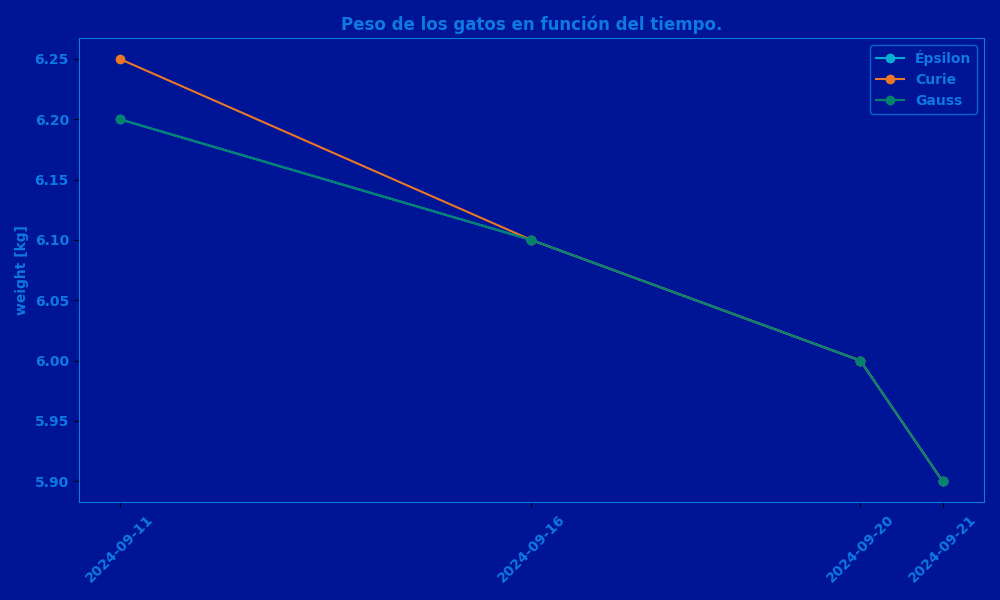
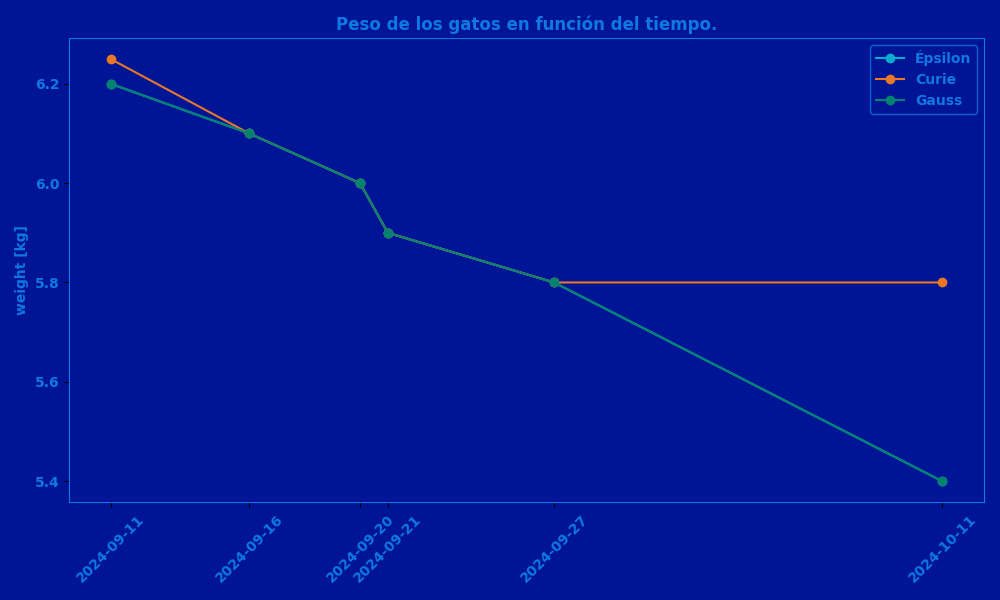
update 11/10

diff --git a/my_cats.py b/my_cats.py
@@ -20,6 +20,8 @@ def get_epsilon() -> Cat:
             Weight(weight=6.1, date=date(2024,9,16)),
             Weight(weight=6.0, date=date(2024,9,20)),
             Weight(weight=5.9, date=date(2024,9,21)),
+            Weight(weight=5.8, date=date(2024,9,27)),
+            Weight(weight=5.4, date=date(2024,10,11)),
         ],
         anti_parasitic=[
             AntiParasitic(name=ANTI_PARASITIC_APRAX, date=date(2024,9,15))
@@ -36,6 +38,8 @@ def get_curie() -> Cat:
             Weight(weight=6.1, date=date(2024,9,16)),
             Weight(weight=6.0, date=date(2024,9,20)),
             Weight(weight=5.9, date=date(2024,9,21)),
+            Weight(weight=5.8, date=date(2024,9,27)),
+            Weight(weight=5.8, date=date(2024,10,11)),
         ],
         anti_parasitic=[
             AntiParasitic(name=ANTI_PARASITIC_APRAX, date=date(2024,9,15))
@@ -52,6 +56,8 @@ def get_gauss() -> Cat:
             Weight(weight=6.1, date=date(2024,9,16)),
             Weight(weight=6.0, date=date(2024,9,20)),
             Weight(weight=5.9, date=date(2024,9,21)),
+            Weight(weight=5.8, date=date(2024,9,27)),
+            Weight(weight=5.4, date=date(2024,10,11)),
         ],
         anti_parasitic=[
             AntiParasitic(name=ANTI_PARASITIC_APRAX, date=date(2024,9,15))

diff --git a/README.md b/README.md
@@ -1,4 +1,4 @@
-##### last_updated: 2024-09-22 01:56:17
+##### last_updated: 2024-10-11 21:06:32
 
 ### Control de peso.
 ![plots/cat_weights.png](plots/cat_weights.png)
